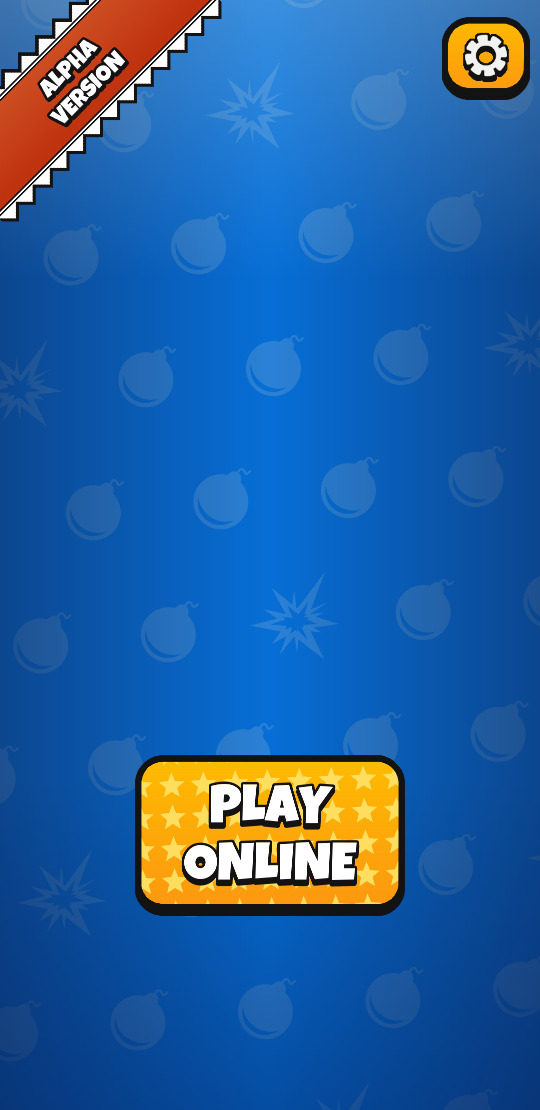
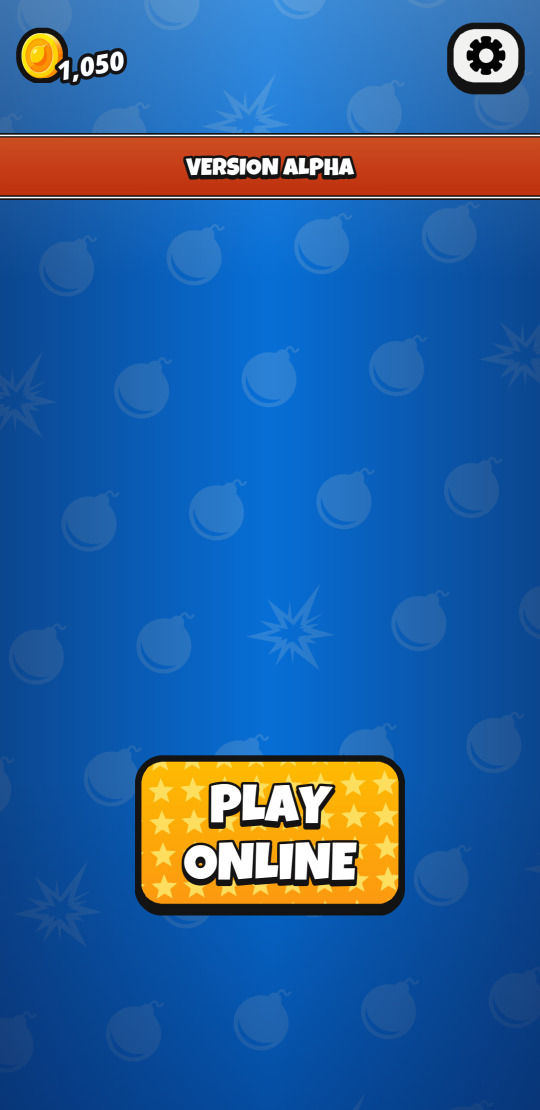
Update the captures from the readme.

diff --git a/docs/release.md b/docs/release.md
@@ -1,11 +1,12 @@
 # Things to do for a release
  - Update the translations.
+ - Update the screen captures from the docs/readme folder (LANG=C).
  - Update the screen captures from the metadata folder.
  - Check if the descriptions from the metadata folder must be updated.
  - Fill the changelog.
  - Double-check the version in the main CMakeLists.txt
  - Create a release-candidate tag.
  - Ensure that the CI passes.
- - Upload the Android bundle on GooglePlay, ensure that there are no issue.
+ - Upload the Android bundle on GooglePlay, ensure that there are no issues.
  - Check that the F-Droid build passes.
  - Update the remote config on the server to target the correct server.
